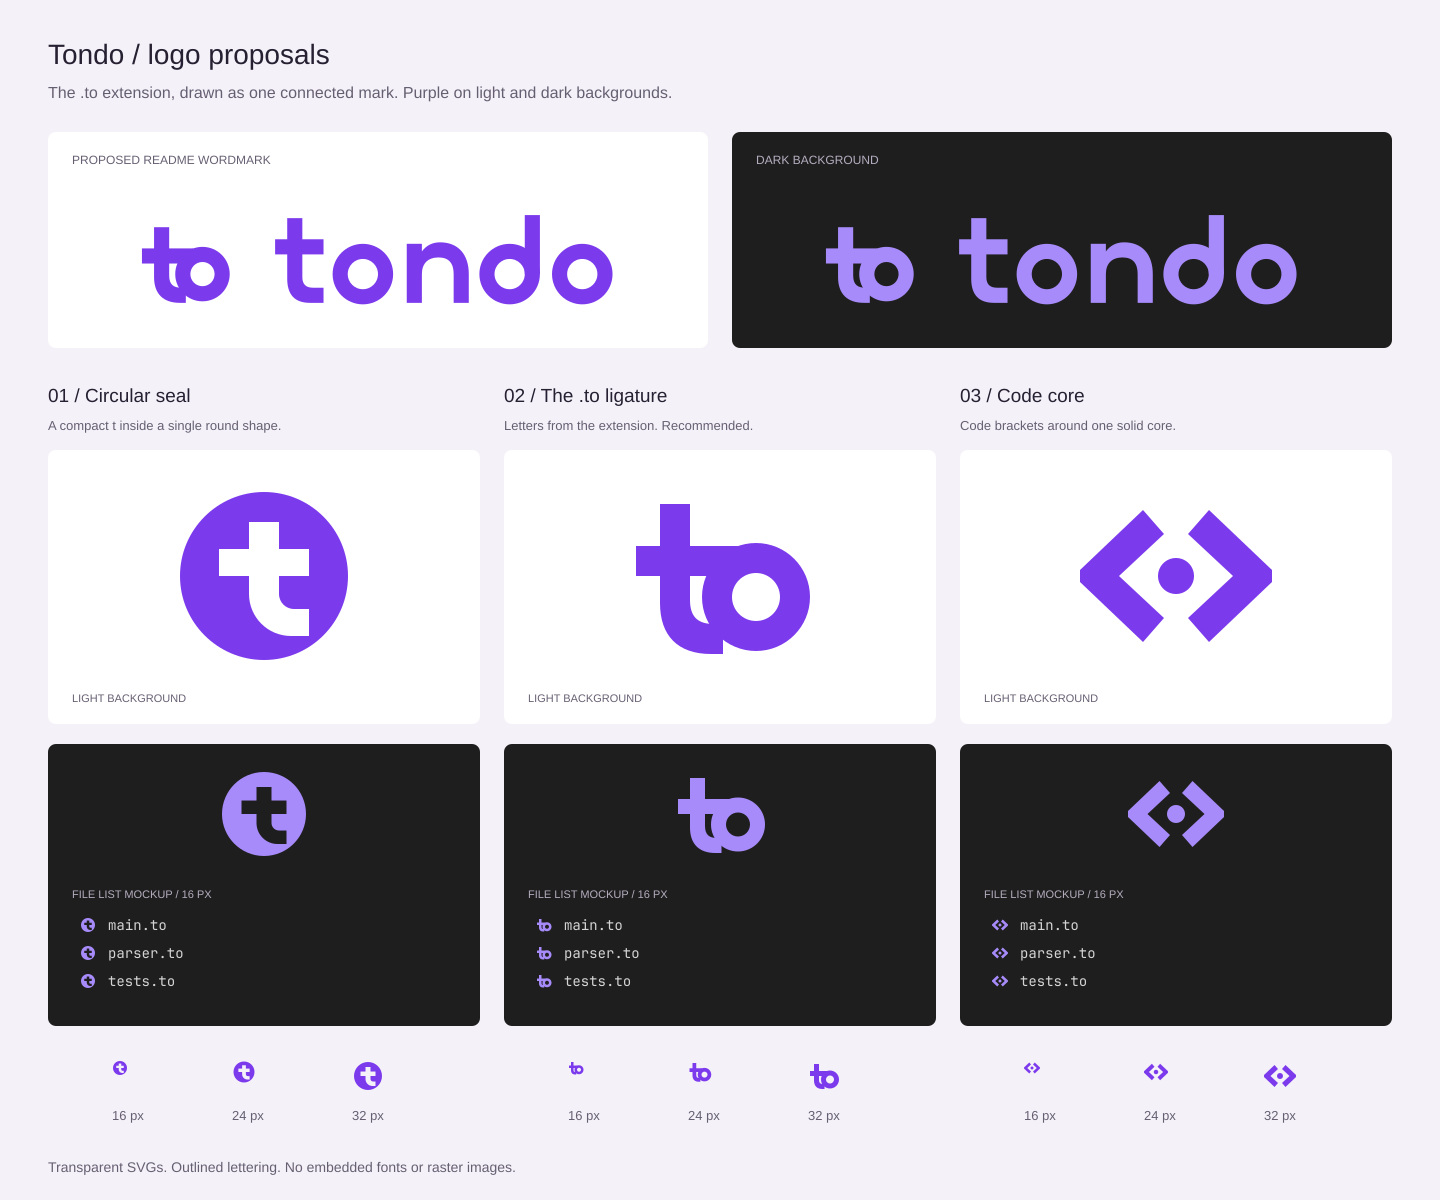
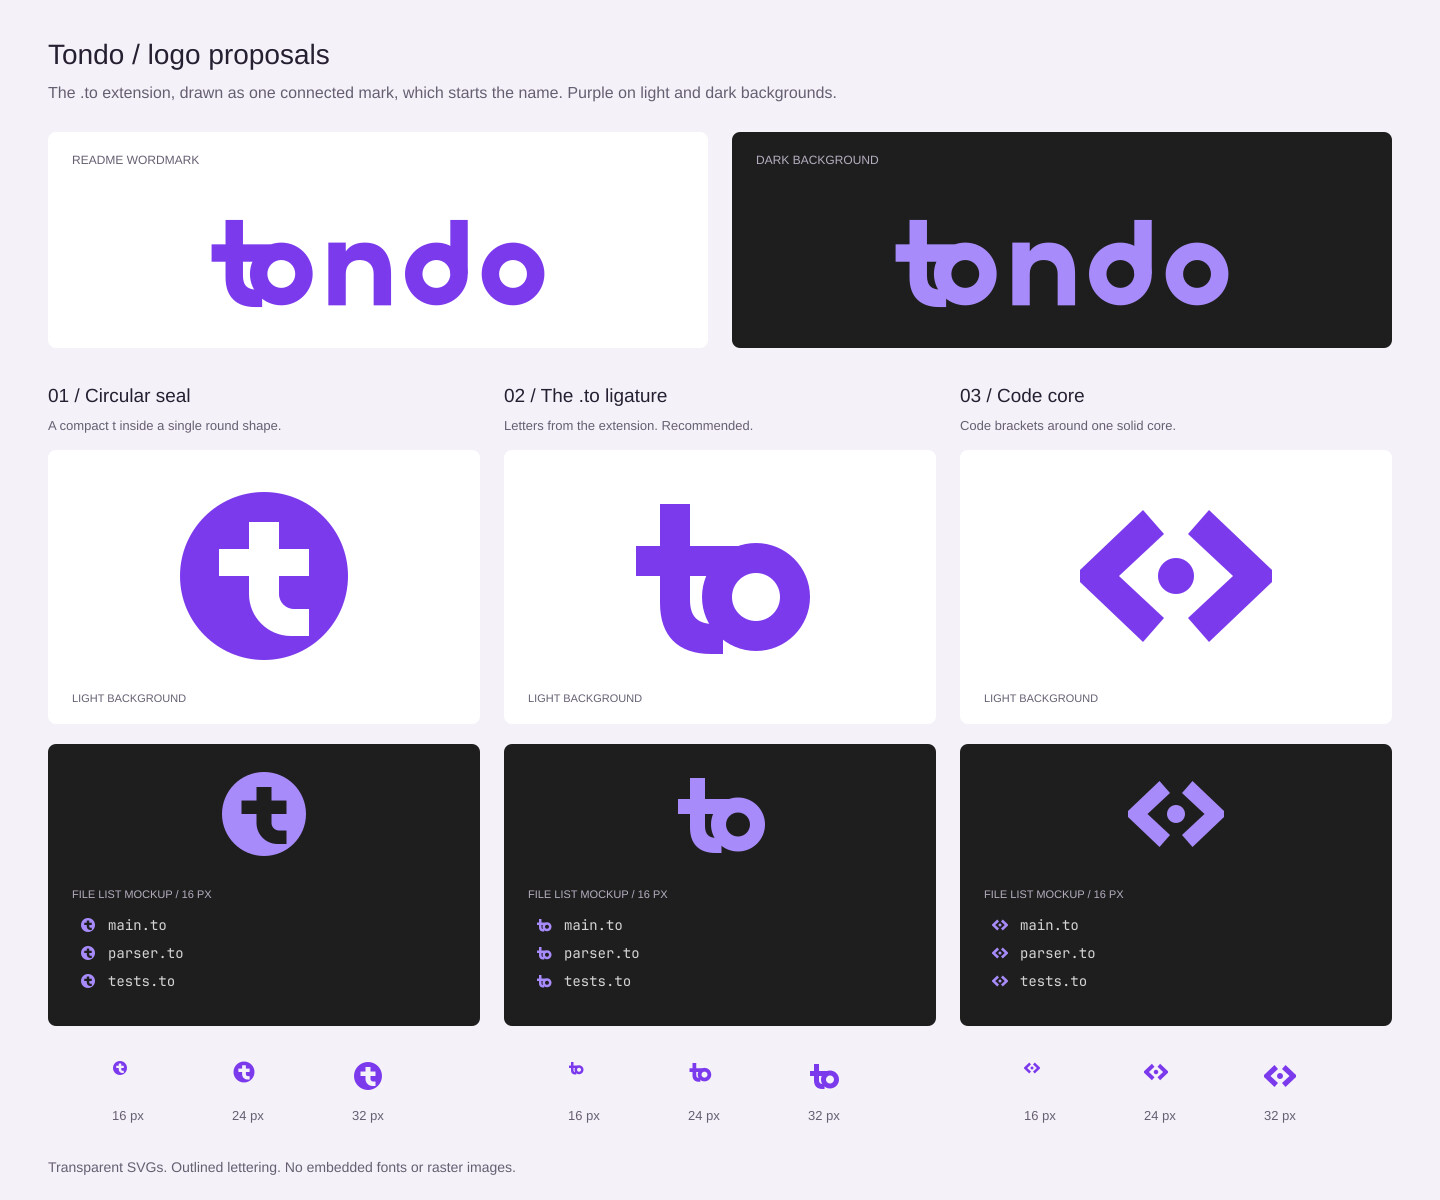
Make the wordmark read tondo once
The wordmark put the `to` mark before the whole name, so it read `to
tondo`. The mark is now the name's first two letters, and `ndo` follows it
in the same weight and circles. The standalone mark, which the editors and
the icon of `.to` files use, stays as it was.

diff --git a/docs/branding/README.md b/docs/branding/README.md
@@ -1,15 +1,17 @@
-# Tondo logo proposals
+# Tondo's logo
 
-The proposed mark joins the `t` and `o` of `.to`. Its circular bowl and
-connected shape reflect the README's “small by design, complete in practice”
-and the toolchain delivered in one executable.
+The mark joins the `t` and `o` of `.to`, the extension of Tondo's files. Its
+circular bowl and connected shape reflect “small by design, complete in
+practice” and the toolchain delivered in one executable. The wordmark is the
+name itself: the mark is its first two letters, and `ndo` follows in the same
+weight and circles, so it reads `tondo` once.
 
 | Asset | Use |
 | --- | --- |
 | [tondo.svg](tondo.svg) | Standalone mark on light backgrounds; `.to` file icon |
 | [tondo-dark.svg](tondo-dark.svg) | Standalone mark on dark backgrounds |
-| [tondo-wordmark.svg](tondo-wordmark.svg) | Mark and outlined name for the README |
-| [tondo-wordmark-dark.svg](tondo-wordmark-dark.svg) | Mark and outlined name on dark backgrounds |
+| [tondo-wordmark.svg](tondo-wordmark.svg) | The name, for the README and documents |
+| [tondo-wordmark-dark.svg](tondo-wordmark-dark.svg) | The name on dark backgrounds |
 | [alternatives/round-t.svg](alternatives/round-t.svg) | Alternative: a `t` cut out of a circular seal |
 | [alternatives/code-core.svg](alternatives/code-core.svg) | Alternative: code brackets around one core |
 
@@ -17,10 +19,11 @@ All logos have transparent backgrounds and use vector shapes, including
 the lettering. They have no font, image, script or network dependencies.
 The colors are `#7c3aed` for light backgrounds and `#a78bfa` for dark ones.
 The standalone mark uses a 64 × 64 view box and can be rendered at 16,
-24 or 32 px.
+24 or 32 px; the wordmark uses 199 × 66, with the mark where the standalone
+one has it.
 
 The README and the VS Code extension use the `.to` ligature; the others stay
 as alternatives. The file lists in the preview are mockups for judging the
 icons at 16 px, not editor screenshots.
 
-![Logo proposals, light and dark wordmarks, and file icon size samples](preview.svg)
+![The wordmark on light and dark backgrounds, the three marks, and file icon size samples](preview.svg)
